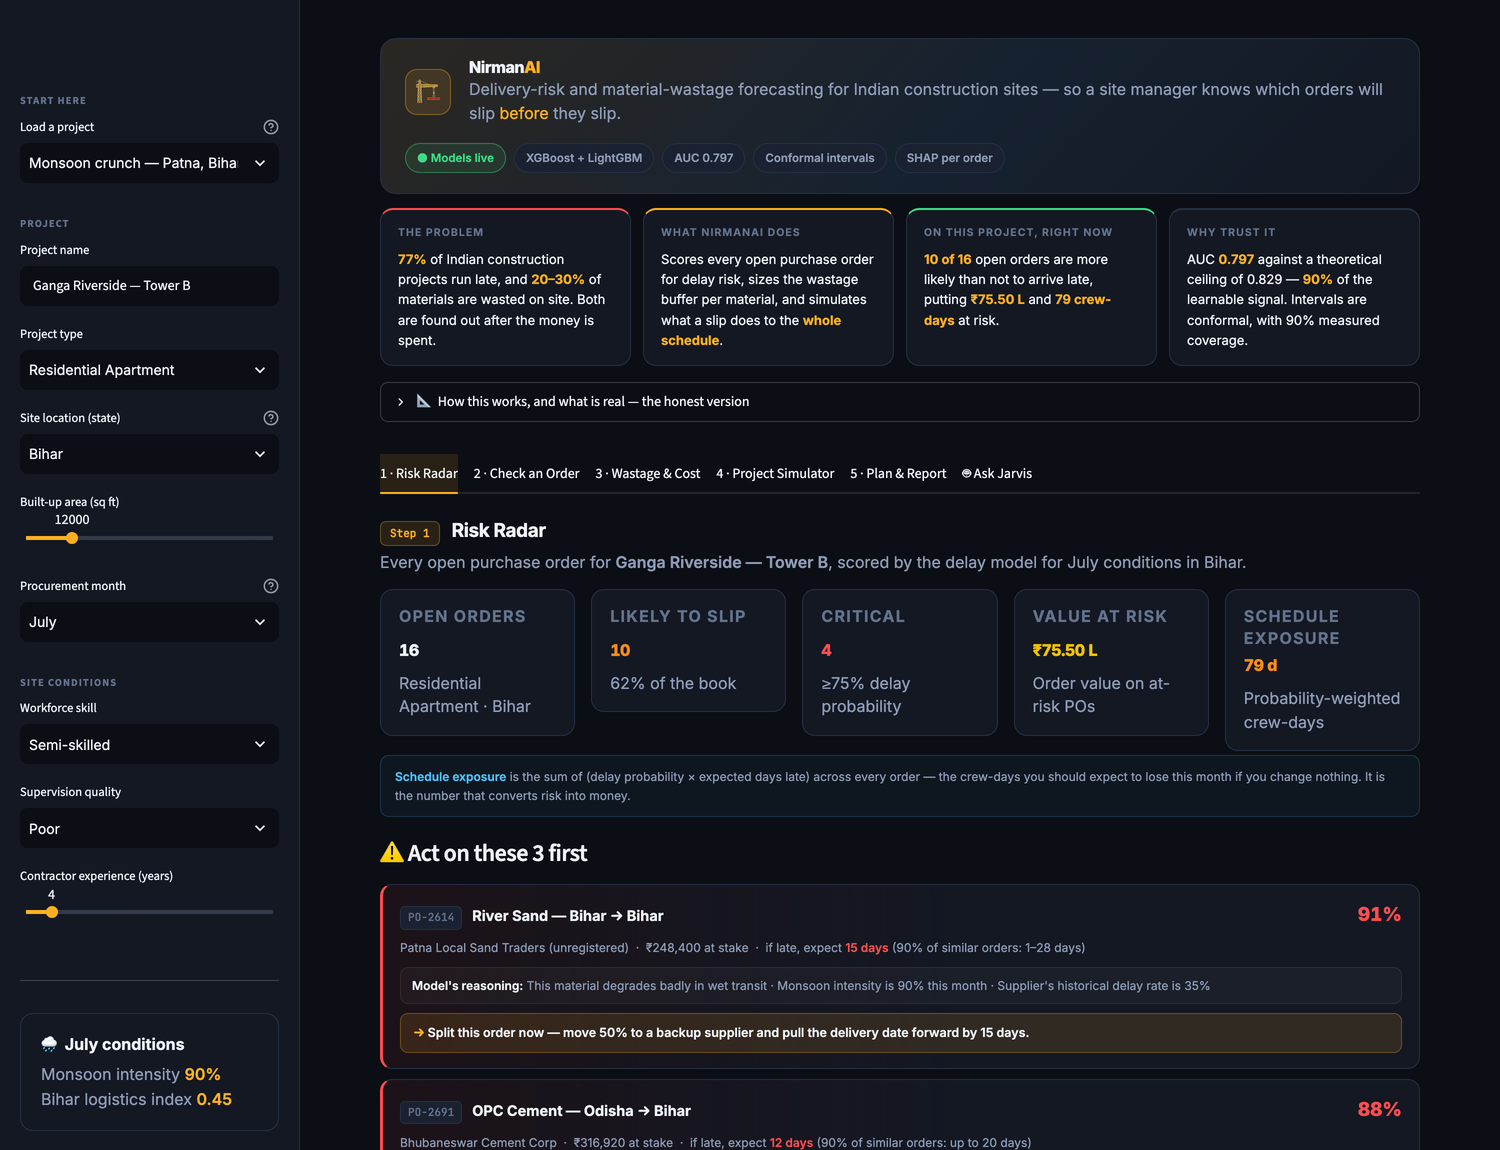
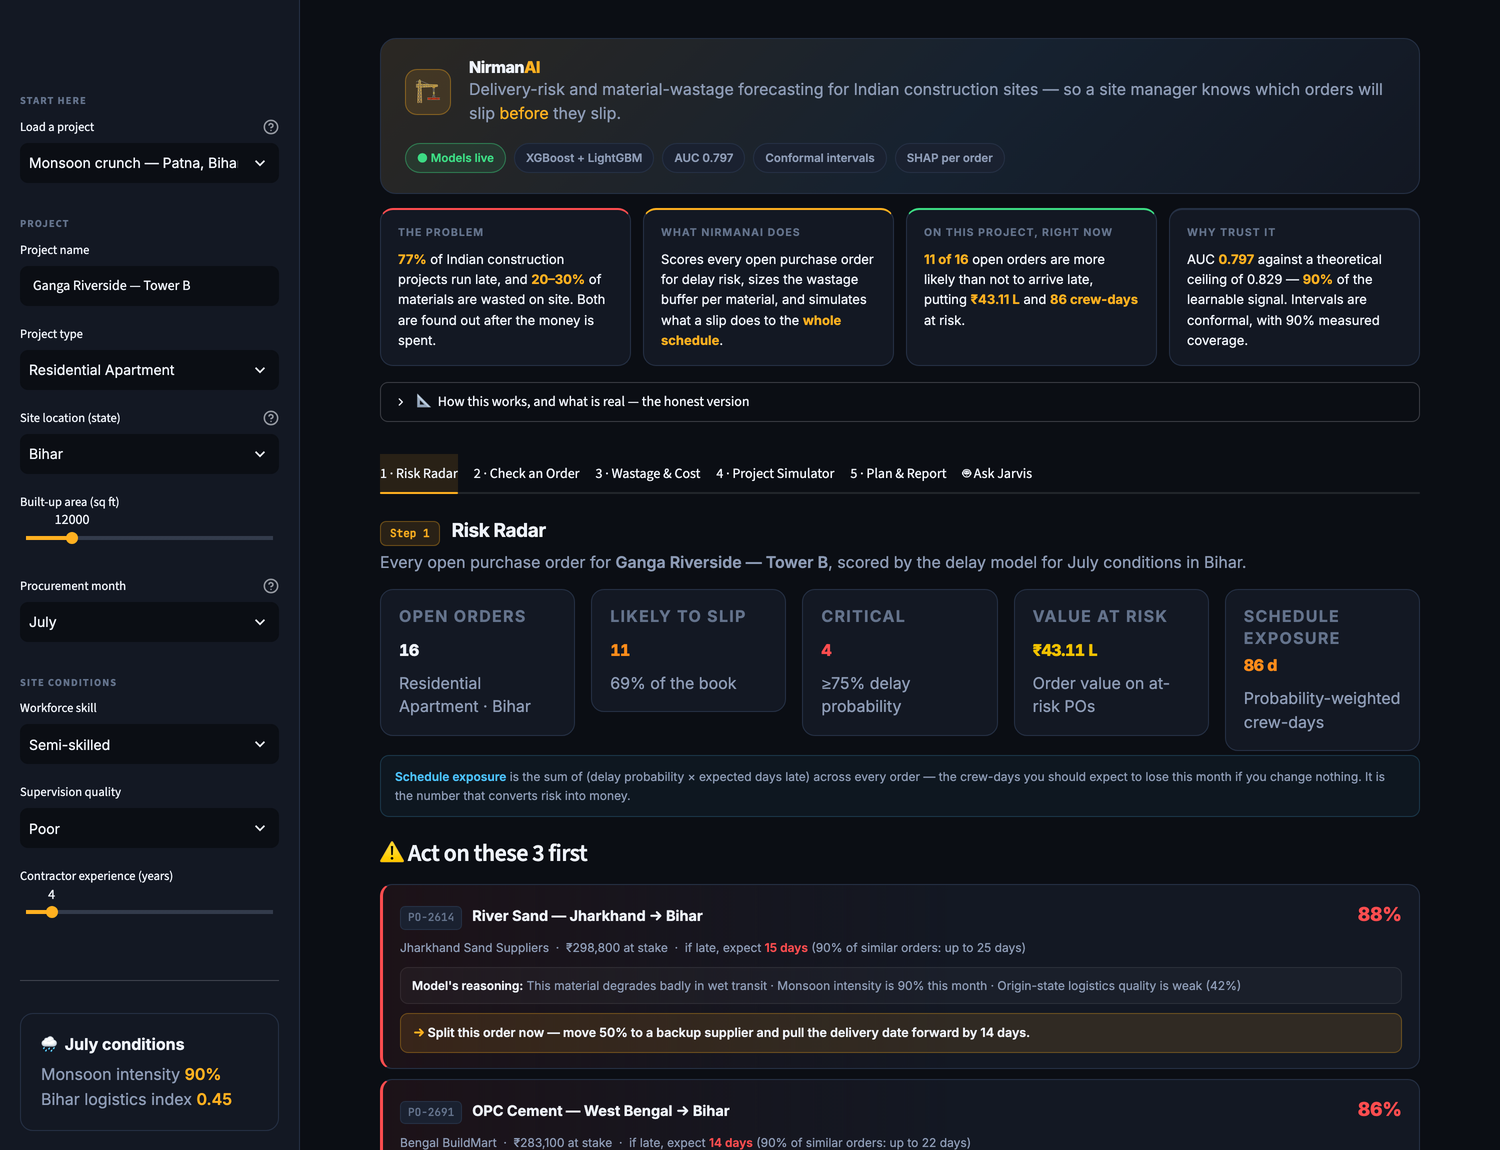
Make the demo reproducible and add a timed video script
The order book seed used Python's builtin hash(), which is randomised per
process. The same project produced 6, then 9, then 11 at-risk orders across
restarts — the headline number changed every time the server came up, which
made a scripted demo impossible and read as an unstable model. Switched to
blake2b, which is deterministic across processes and machines.

Regenerated the README screenshots against the now-stable figures.

DEMO_SCRIPT.md: word-counted, segment-timed script for the 10-minute demo
video. Runs 9:15 at a normal presenting pace, with measured per-pace timings
and marked cuts for a slower speaker. All 21 quoted figures verified against
live model output.

diff --git a/demo_data.py b/demo_data.py
@@ -23,6 +23,8 @@ month genuinely re-scores every row.
 
 from __future__ import annotations
 
+import hashlib
+
 import numpy as np
 import pandas as pd
 
@@ -82,8 +84,17 @@ def monsoon_intensity(month: int) -> float:
 
 
 def _seed_for(state: str, month: int, project_name: str) -> int:
-    """Stable seed so a given project always yields the same order book."""
-    return abs(hash((state, month, project_name))) % (2 ** 31)
+    """
+    Stable seed so a given project always yields the same order book.
+
+    Must NOT use the builtin hash(): Python randomises string hashing per
+    process, so every server restart produced a different order book for the
+    same project — the headline "9 of 16 orders at risk" would change between
+    runs, which makes a scripted demo impossible and looks like the model is
+    unstable. blake2b is deterministic across processes and machines.
+    """
+    key = f"{state}|{month}|{project_name}".encode("utf-8")
+    return int.from_bytes(hashlib.blake2b(key, digest_size=4).digest(), "big")
 
 
 def build_delay_input(material, supplier, dest_state, month, quantity,

diff --git a/DEMO_SCRIPT.md b/DEMO_SCRIPT.md
@@ -1,0 +1,367 @@
+# NirmanAI — Demo Video Script
+
+**Runs 9:15 at a normal presenting pace** (hard limit 10:00 — see
+[Timing](#timing--measured-not-estimated) for what to cut if you speak slowly).
+**Format:** 1920×1080 screen recording with voice-over, browser at ~90% zoom.
+
+Every figure below is what the app actually outputs. The order book is seeded
+deterministically, so **you will see these exact numbers.**
+
+---
+
+## Before you record
+
+- [ ] `python setup.py` finished with `[OK] All models loaded`
+- [ ] `streamlit run app.py` open at `localhost:8501`
+- [ ] Masthead shows green **`● Models live`** — if amber, stop and fix
+- [ ] Scenario set to **"Monsoon crunch — Patna, Bihar (July)"**
+- [ ] **Pre-run the simulator once**, then reload — this warms the cache so it
+      returns instantly on camera
+- [ ] Notifications off, other tabs closed, bookmarks bar hidden
+
+**Record from `localhost`, not from the live Streamlit Cloud URL.** The hosted app
+sleeps after inactivity and shows a "Zzzz — this app has gone to sleep" screen,
+which takes up to a minute to wake. Fine for a submission link, fatal on camera.
+
+**Skip tab 2 (Check an Order).** It repeats what tab 1 already showed.
+
+---
+
+## 1 · The problem — 0:00 to 0:55
+
+**Screen:** the dashboard's top band. Don't click yet.
+
+> Two numbers define construction in India. Seventy-seven percent of projects run
+> late. Twenty to thirty percent of construction material is wasted on site —
+> about one and a half lakh crore rupees a year.
+>
+> What makes both so hard to fix is that you find out afterwards. A site manager
+> discovers the cement is late when his crew is already standing around. He
+> discovers the wastage when the store runs dry mid-pour, and now he's paying
+> emergency prices.
+>
+> The information needed to see both coming already exists. Supplier track
+> record. The monsoon calendar. State logistics quality. Festival shutdowns. Crew
+> skill and site supervision. Nobody puts it together.
+
+---
+
+## 2 · What NirmanAI is — 0:55 to 1:35
+
+**Screen:** same band, point at the four cards.
+
+> NirmanAI is a supply-risk console for Indian construction sites. Three things,
+> in the order a site manager needs them.
+>
+> It scores every open purchase order for delay risk — probability, a calibrated
+> day range, and the reasons behind it.
+>
+> It sizes the wastage buffer per material, so the quantity you order is right the
+> first time.
+>
+> And it simulates the whole project ten thousand times, to show what one late
+> delivery does downstream.
+
+*(point at the "Why trust it" card)*
+
+> This card is on the front page on purpose — our accuracy, and next to it, the
+> theoretical ceiling. I'll come back to why that second number matters.
+
+---
+
+## 3 · Risk Radar — 1:35 to 3:05
+
+**Screen:** tab **1 · Risk Radar**.
+
+> A residential tower in Patna, Bihar, procuring in July. Peak monsoon. Sixteen
+> open purchase orders.
+
+*(point across the KPI row — pause here, let it land)*
+
+> **Eleven of sixteen are more likely than not to arrive late. Four are critical.
+> Forty-three lakh rupees of order value at risk, and eighty-six crew-days of
+> schedule exposure.**
+>
+> That last number turns risk into money — delay probability times expected days
+> late, summed across the book. Eighty-six crew-days is what this site loses this
+> month if nobody acts.
+
+*(scroll to the alert cards)*
+
+> **River Sand from Jharkhand into Bihar. Eighty-eight percent chance it slips,
+> about fifteen days if it does.**
+>
+> This line — "Model's reasoning" — is not a hand-written rule. These are SHAP
+> values computed for this specific order: river sand degrading in wet transit,
+> ninety percent monsoon intensity, high corridor humidity.
+>
+> Then the action: split the order, move half to a backup, pull the date forward.
+
+*(scroll to the table)*
+
+> Below is the full book — every row a live model call, with each order's biggest
+> risk driver in the last column.
+
+---
+
+## 4 · Proof it's real — 3:05 to 4:05
+
+**The most important minute in the video. Do not cut during the switch.**
+
+> A fair thing to be sceptical about: is this actually running, or is it a
+> good-looking mock-up? So let me change the project.
+
+*(Sidebar → **"Dry season — Ahmedabad, Gujarat (February)"**. Let it re-render on camera.)*
+
+> Same product. Commercial complex in Gujarat, February. Dry season, best
+> logistics in the country.
+>
+> **Zero of sixteen at risk. Zero critical. Schedule exposure drops from
+> eighty-six crew-days to three.**
+>
+> Nothing is hardcoded. All sixteen orders were just re-scored against a different
+> state, month, suppliers and distances.
+
+*(Switch to **"Festival window — Lucknow, UP (October)"**)*
+
+> One more, because monsoon isn't the only failure mode. Metro depot in Uttar
+> Pradesh, October. **Thirteen of sixteen at risk. Eight critical. One and a half
+> crore.**
+
+*(point at the top alert's reasoning line)*
+
+> And the reason: **"Order window overlaps a festival shutdown."** Diwali and Chhath
+> close plants for a week and trucking capacity collapses. A distinctly Indian
+> failure mode the model learned because we encoded the festival calendar.
+
+*(Switch back to **Bihar / July** before continuing.)*
+
+---
+
+## 5 · Wastage and cost — 4:05 to 5:05
+
+**Screen:** tab **3 · Wastage & Cost**.
+
+> Delay is half the problem. The other half is what gets wasted once material is
+> on site.
+>
+> Same bill of quantities, scored against this site's real conditions —
+> semi-skilled crew, poor supervision.
+>
+> **Eight lakh forty-three thousand rupees of material this project throws away.**
+
+*(point at the insight callout)*
+
+> And here's my favourite thing it does. **River Sand has the worst wastage rate —
+> thirty-one percent. But TMT Steel loses more money: three lakh forty-four
+> thousand, at only nine percent — because steel is expensive.**
+>
+> Manage by percentages, you chase the sand. Manage by rupees, you chase the
+> steel. The system tells you which list to work from.
+
+*(scroll to the supervision ladder)*
+
+> And this is the business case. Each row is a fresh model run, changing only
+> supervision quality. **Poor to excellent saves three lakh ten thousand rupees on
+> this one bill of quantities.** That's how you justify hiring another site
+> engineer — priced by the model.
+
+---
+
+## 6 · The simulator — 5:05 to 6:35
+
+**Screen:** tab **4 · Project Simulator**.
+
+> But the real question isn't about one order. It's: does my project finish on
+> time? One late cement delivery delays the pour, which delays the masonry, which
+> delays everything after it.
+
+*(click **Run simulation**)*
+
+> So we simulate the entire activity network ten thousand times.
+
+*(let it land — pause)*
+
+> **Seventeen percent chance this project finishes on time. Most likely two
+> hundred sixty-one days against a two-thirty plan. Worst ten percent, two
+> hundred seventy-two.** That took about a second.
+>
+> The naive version calls the model inside the loop — three hundred thousand
+> calls, minutes of compute. We score it once per material per month instead —
+> about a hundred and thirty calls — to build a calibrated risk profile, then
+> sample from those. **The machine learning still sets every probability.**
+
+*(scroll through distribution, activities, materials)*
+
+> The full distribution of where this project lands. Then the diagnosis: which
+> activities slip, which materials cause it, and the single points of failure —
+> activities depending on one material with no fallback.
+
+---
+
+## 7 · Plan and honesty — 6:35 to 7:40
+
+**Screen:** tab **5 · Plan & Report** → **Generate procurement plan**.
+
+> Turning that into something a buyer acts on this morning. Each material gets a
+> **risk-weighted** buffer — probability times expected days late. A
+> ninety-percent-risk cement order gets a real buffer; a five-percent tile order
+> gets almost none.
+
+*(scroll to supplier allocation and the Pareto chart)*
+
+> On supplier allocation — this is where prototypes overclaim. Assume two
+> suppliers fail independently and the maths says splitting removes ninety-seven
+> percent of your risk. That's wrong: the same monsoon hits both. **We model that
+> correlation, so splitting removes about half the stock-out risk, and no more.**
+
+*(open the honesty expander)*
+
+> And I want to be direct. **The purchase orders here are synthetic** — we have no
+> ERP to read from. They're generated from the selected project, then scored by the
+> real models. The training data is synthetic too, built from published benchmarks:
+> CIDC wastage ranges, IMD monsoon profiles, state logistics indices, the festival
+> calendar.
+>
+> The models are real. The seventy-one suppliers are a curated database. And this
+> panel is in the product, not just in the video.
+
+---
+
+## 8 · Why the accuracy number is the point — 7:40 to 8:35
+
+**Screen:** the "Why trust it" card or the methodology expander.
+
+> Which brings me back to that number. Our delay classifier scores **AUC 0.797**.
+> An earlier version reported 0.918 — we deleted it, because we found where it
+> came from.
+>
+> The data had a traffic feature recorded **during** transit: heavy traffic meant a
+> hundred percent delayed. But congestion seen while the truck is already late is a
+> *consequence* of the delay, not something a buyer knows at order time. The model
+> was reading the answer.
+>
+> We rebuilt the generator to forecast traffic at order time. Accuracy dropped.
+> That's the honest number.
+>
+> And because a delivery either slips or it doesn't, there's a hard ceiling on what
+> any classifier can reach. We compute it: **0.829**. We score 0.797 — **ninety
+> percent of the learnable signal.**
+>
+> Every prediction also ships with a conformal interval — ninety percent target
+> coverage, ninety point three measured. Because telling a site manager "your
+> cement arrives on the fifteenth" with no range is how crews end up idle.
+
+---
+
+## 9 · Close — 8:35 to 8:55
+
+> NirmanAI turns information Indian construction sites already have into decisions
+> they can act on this week: which orders to chase, how much to actually order, and
+> where the schedule really breaks.
+>
+> Honest about what it knows, how confident it is, and what's still synthetic.
+> Thank you.
+
+---
+
+## The exact numbers you'll see
+
+### Monsoon crunch — Patna, Bihar (July)
+| | |
+|---|---|
+| Open orders | 16 |
+| Likely to slip | **11** (69%) |
+| Critical | **4** |
+| Value at risk | **₹43.11 L** |
+| Schedule exposure | **86 days** |
+| Top alert | River Sand, Jharkhand → Bihar, **88%**, ~15 d if late |
+| Simulator | **17%** on time · plan 230 d · likely 261 d · P90 272 d · Critical |
+| Wastage overrun | **₹8.43 L** · weighted **18.7%** |
+| Worst by cost / by % | TMT Steel ₹3.44 L @ 9.2% / River Sand 30.9% |
+| Supervision saving | **₹3.10 L** (Poor → Excellent) |
+| Stock-out risk cut | **50%** (ρ = 47%) |
+
+### Dry season — Ahmedabad, Gujarat (February)
+| | |
+|---|---|
+| Likely to slip | **0 of 16** |
+| Critical | **0** |
+| Schedule exposure | **3 days** |
+| Simulator | **81%** on time · Low |
+
+### Festival window — Lucknow, UP (October)
+| | |
+|---|---|
+| Likely to slip | **13 of 16** (81%) |
+| Critical | **8** |
+| Value at risk | **₹1.52 Cr** |
+| Top alert driver | *"Order window overlaps a festival shutdown"* |
+| Simulator | **19%** on time · Critical |
+
+---
+
+## If a number looks different
+
+1. **Check the project name hasn't been edited** — it's part of the random seed.
+   Must read exactly `Ganga Riverside — Tower B` (em-dash).
+2. **Check the masthead chip is green.** Amber means models didn't load and
+   everything shown is a rule-based estimate.
+3. If you re-ran `python setup.py`, the data regenerates and simulator figures
+   shift a point or two. Say "about seventeen percent", not the decimal.
+
+---
+
+## Timing — measured, not estimated
+
+The script is **1,179 spoken words**. Speech time plus roughly 50 seconds of
+silent clicking and page renders:
+
+| Your pace | Speech | **Total video** |
+|---|---|---|
+| 125 wpm (slow, deliberate) | 9:25 | **10:15** ⚠ over |
+| 140 wpm (normal presenting) | 8:25 | **9:15** ✅ |
+| 155 wpm (brisk) | 7:36 | **8:26** ✅ |
+
+Per segment at 140 wpm:
+
+| Segment | Speech | Ends around |
+|---|---|---|
+| 1 · Problem | 0:46 | 0:50 |
+| 2 · What it is | 0:43 | 1:35 |
+| 3 · Risk Radar | 1:10 | 2:55 |
+| 4 · Proof it's real | 0:58 | 4:00 |
+| 5 · Wastage | 1:03 | 5:10 |
+| 6 · Simulator | 1:06 | 6:30 |
+| 7 · Plan + honesty | 1:11 | 7:45 |
+| 8 · Why AUC matters | 1:09 | 9:00 |
+| 9 · Close | 0:20 | 9:15 |
+
+### Read this before recording
+
+**Time yourself on segment 1 alone.** It should take about **46 seconds**. If it
+takes you over a minute, you are speaking at ~125 wpm and the full video will run
+past 10:00 — take the two cuts below before you start.
+
+### Cuts, in order of what to drop first
+
+1. **Segment 6**, the "three hundred thousand calls" paragraph — saves 0:20
+2. **Segment 7**, the Pareto/allocation paragraph, keeping the honesty one — 0:20
+3. **Segment 4**, the Lucknow festival scenario — saves 0:25
+
+Taking all three brings you to about **8:10** at any pace.
+
+**Never cut** the Bihar → Gujarat switch in segment 4, or segment 8. Those are
+the two moments that separate this from a mock-up.
+
+---
+
+## Recording tips
+
+- **Don't cut during the scenario switch.** The judge must see the page re-render
+  live — a cut reads as an edit.
+- ~140 words per minute. This script is written at that pace; if you naturally
+  speak faster you'll land closer to 8:00.
+- Fluff a line? Pause two seconds, say it again, cut later.
+- Easiest method: record silent screen capture first, then voice-over on top.
+- Keep the generated PDF report open in a second tab as a backup visual.
